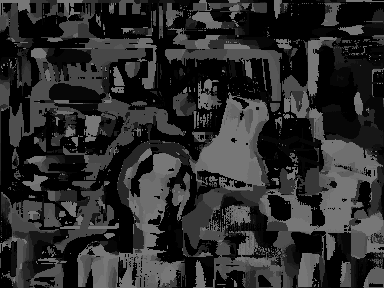
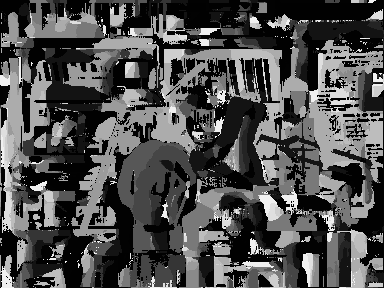
ok

diff --git a/stereo_matching_cuda/SystemIncludes.h b/stereo_matching_cuda/SystemIncludes.h
@@ -21,7 +21,7 @@
 #define RADIUS 9
 
 #define EPS 6.5025
-#define D_LR 0
+#define D_LR 0.1
 
 
 #include "cuda_runtime.h"
